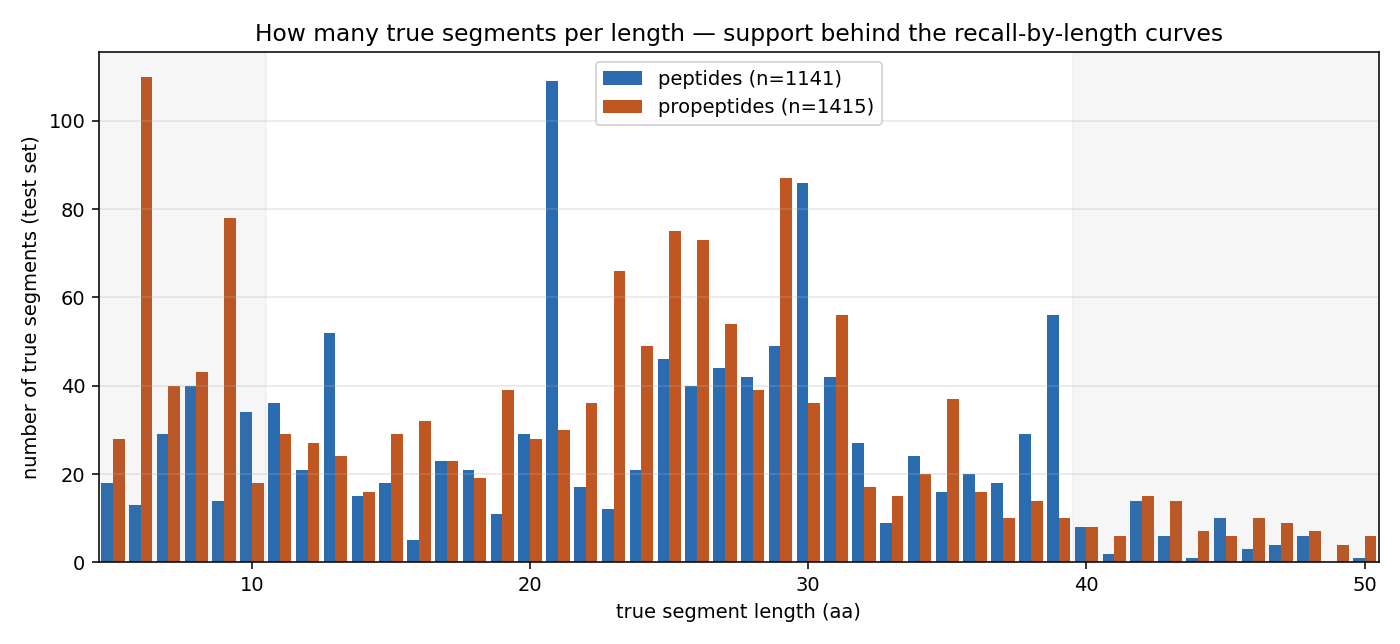
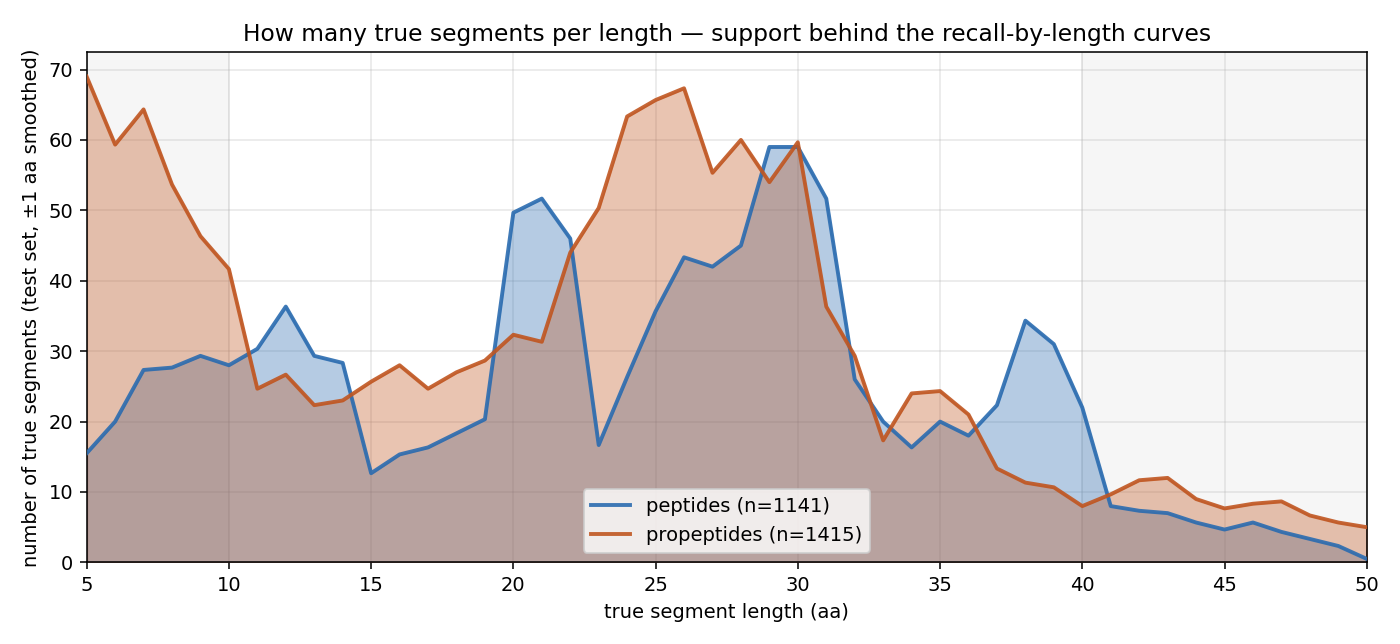
Length-support as filled curves; bold the baseline too on recall-by-length
- length_support_counts: continuous semi-transparent filled curves (±1 smoothed)
  instead of bars — easier to read the per-length segment counts.
- recall-by-length: draw the ESM2 baseline bold (dark-grey dashed) alongside the new
  winner (bold black), so the total progress made (baseline -> winner) is visible at a
  glance. Clear on propeptides (winner well above baseline); peptides stay close.

diff --git a/analysis/errors/src/plot_length_support.py b/analysis/errors/src/plot_length_support.py
@@ -28,25 +28,36 @@ def counts(t, task):
     return np.array([(s.length == L).sum() for L in range(LMIN, LMAX + 1)])
 
 
+def _smooth(a, win=1):
+    """Light ±win moving average so the per-integer counts read as a continuous curve."""
+    out = np.zeros_like(a, dtype=float)
+    for k in range(len(a)):
+        lo, hi = max(0, k - win), min(len(a), k + win + 1)
+        out[k] = a[lo:hi].mean()
+    return out
+
+
 def main():
     t = pd.read_csv(SEG)
     xs = np.arange(LMIN, LMAX + 1)
-    npep = counts(t, "peptides")
-    npro = counts(t, "propeptides")
+    npep = _smooth(counts(t, "peptides"))
+    npro = _smooth(counts(t, "propeptides"))
+    npep_raw, npro_raw = counts(t, "peptides"), counts(t, "propeptides")
 
     fig, ax = plt.subplots(figsize=(10, 4.6))
-    w = 0.42
-    ax.bar(xs - w / 2, npep, w, color="#2b6cb0", label=f"peptides (n={npep.sum()})")
-    ax.bar(xs + w / 2, npro, w, color="#c05621", label=f"propeptides (n={npro.sum()})")
-    ax.set_xlim(LMIN - 0.5, LMAX + 0.5)
+    ax.fill_between(xs, npep, color="#2b6cb0", alpha=0.35, zorder=2)
+    ax.plot(xs, npep, color="#2b6cb0", lw=2, alpha=0.9, label=f"peptides (n={npep_raw.sum()})", zorder=3)
+    ax.fill_between(xs, npro, color="#c05621", alpha=0.35, zorder=2)
+    ax.plot(xs, npro, color="#c05621", lw=2, alpha=0.9, label=f"propeptides (n={npro_raw.sum()})", zorder=3)
+    ax.set_xlim(LMIN, LMAX); ax.set_ylim(0, None)
     ax.set_xlabel("true segment length (aa)")
-    ax.set_ylabel("number of true segments (test set)")
+    ax.set_ylabel("number of true segments (test set, ±1 aa smoothed)")
     ax.set_title("How many true segments per length — support behind the recall-by-length curves")
-    ax.grid(axis="y", alpha=.3)
+    ax.grid(alpha=.3)
     ax.legend()
     # mark the thin tails the recall edges rely on
-    for lo, hi, txt in [(5, 10, "short tail"), (40, 50, "long tail")]:
-        ax.axvspan(lo - 0.5, hi + 0.5, color="grey", alpha=0.07)
+    for lo, hi in [(5, 10), (40, 50)]:
+        ax.axvspan(lo, hi, color="grey", alpha=0.07, zorder=1)
     fig.tight_layout()
     out = FIG / "length_support_counts.png"
     fig.savefig(out, dpi=140); plt.close(fig)

diff --git a/analysis/errors/src/plot_recall_by_length_models.py b/analysis/errors/src/plot_recall_by_length_models.py
@@ -44,12 +44,13 @@ LABELS = {
     "esmc6b_3di_gated_boundary": "ESM-C 6B ⊕ 3Di gated + boundary ★",
 }
 WINNER = "esmc6b_3di_gated_boundary"   # the NEW best — drawn bold black
+BASELINE = "train_run_esm2"            # also drawn bold (grey) to show total progress made
 # Draw winner last/on top; keep a stable order for the rest.
 ORDER = list(LABELS.keys())
 
 # Distinct qualitative colors (tab20-ish), explicitly avoiding two similar blues.
 PALETTE = {
-    "train_run_esm2": "#7f7f7f",                       # grey baseline
+    "train_run_esm2": "#404040",                       # baseline (bold dashed, set in plot)
     "esm2_telescoping_segmental": "#ff7f0e",           # orange
     "esm2_aho_mid_fusion_raw_m64": "#2ca02c",          # green
     "esm2_aho_emission_fusion": "#d62728",             # red
@@ -95,11 +96,14 @@ def plot_task(task, dframes):
     for run in ordered:
         xs, rec, _ = recall_smoothed(dframes[run], task)
         is_win = run == WINNER
+        is_base = run == BASELINE
+        bold = is_win or is_base
         ax.plot(xs, rec,
-                lw=3.2 if is_win else 1.5,
-                zorder=10 if is_win else 3,
-                color="black" if is_win else PALETTE.get(run, "#999999"),
-                alpha=1.0 if is_win else 0.85,
+                lw=3.2 if bold else 1.4,
+                zorder=10 if is_win else 9 if is_base else 3,
+                color="black" if is_win else ("#404040" if is_base else PALETTE.get(run, "#999999")),
+                linestyle="--" if is_base else "-",
+                alpha=1.0 if bold else 0.8,
                 label=LABELS.get(run, run))
         # sparse coarse-bin print for the log
         def at(lo, hi):